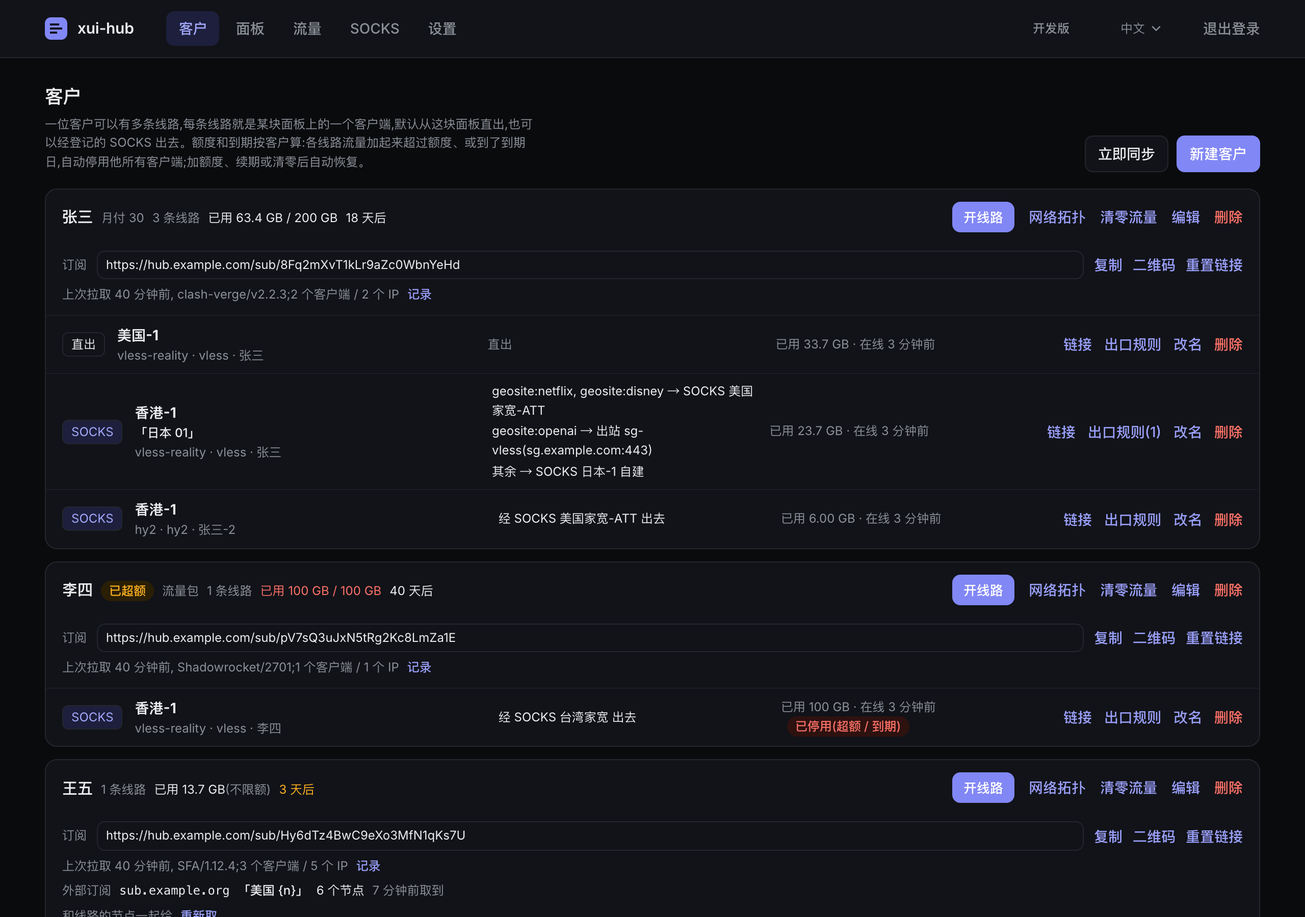
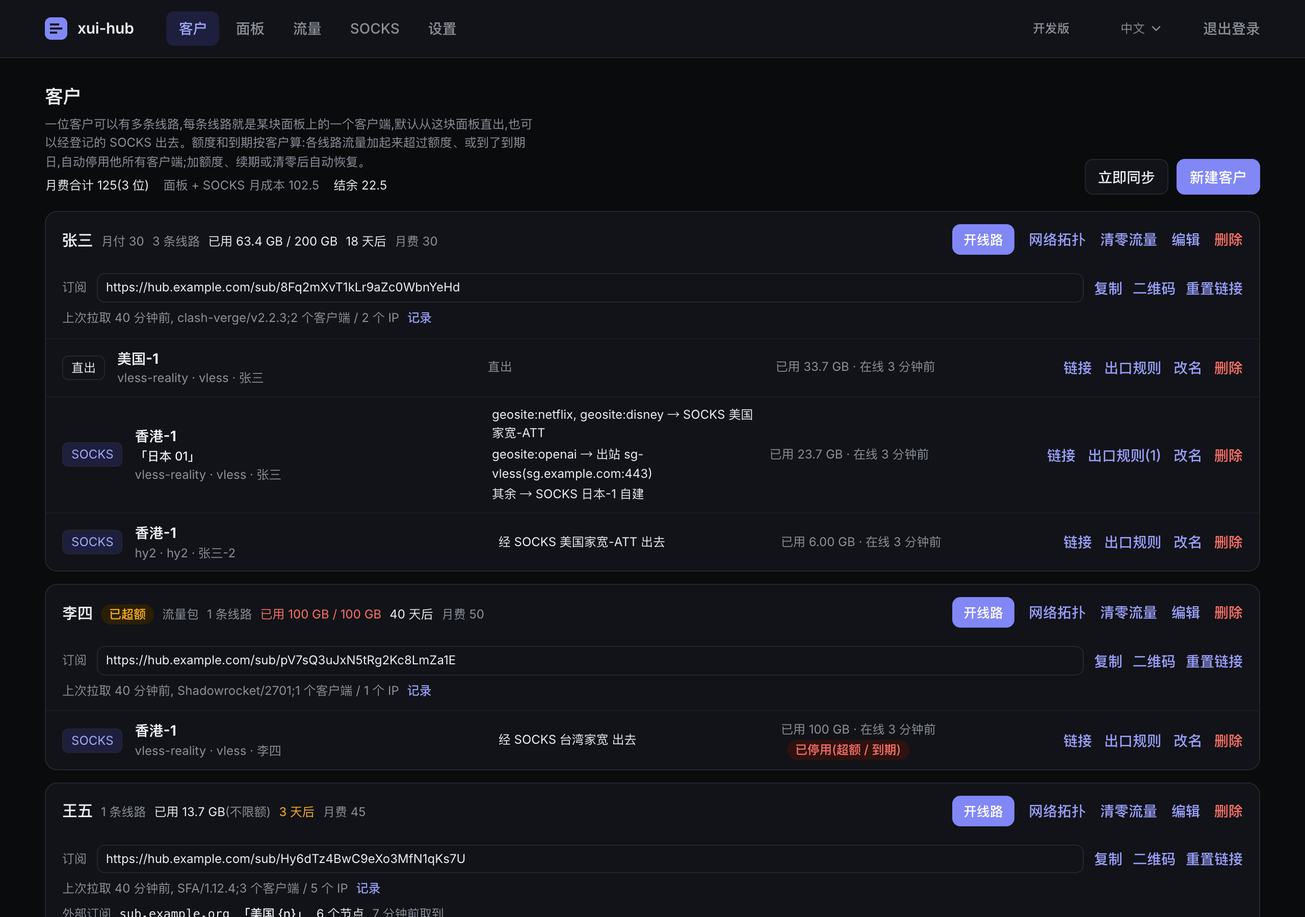
feat: 客户月费:记账、合计和结余
- 客户可以填月费(留空 = 不填),卡片上显示
- 客户页顶上合计没到期客户的月费,减去面板和 SOCKS 的月成本得出结余
- 快到期的提醒里带上月费
- 接口和 MCP 的客户字段加 monthly_fee

diff --git a/web/src/views/Customers.vue b/web/src/views/Customers.vue
@@ -9,13 +9,16 @@ import Modal from '../components/Modal.vue';
 import Select, { type SelectOption } from '../components/Select.vue';
 import { copyText } from '../clipboard';
 import QrCode from '../components/QrCode.vue';
-import { bytesToGb, dateInputToMs, dueLevel, fmtAgo, fmtBytes, fmtDate, fmtDateTime, fmtDue, gbToBytes, msToDateInput, shortUa, stateLabel, subUrl, customSubUrl, routeHopText, routeTarget } from '../format';
+import { bytesToGb, dateInputToMs, dueLevel, feeSummary, fmtAgo, fmtBytes, fmtCost, fmtDate, fmtDateTime, fmtDue, gbToBytes, msToDateInput, shortUa, stateLabel, subUrl, customSubUrl, routeHopText, routeTarget } from '../format';
 import { toast, toastError } from '../toast';
 import type { ClientProtocol, Customer, EnforceOp, Line, LineRule, OpenedLine, OpenLineInput, Panel, PanelInbound, Socks, SubDevice, SubFetch, SubTemplate } from '../types';
 
 const customers = ref<Customer[]>([]);
 const panels = ref<Panel[]>([]);
 const socksList = ref<Socks[]>([]);
+
+/** 月费合计和结余(面板 + SOCKS 的月成本) */
+const fees = computed(() => feeSummary(customers.value, [...panels.value, ...socksList.value]));
 
 const templateDefault = ref('');
 async function load() {
@@ -43,7 +46,7 @@ const proto = (p: string) => PROTOCOL[p] ?? p;
 const editing = ref<Customer | null>(null);
 const showForm = ref(false);
 const saving = ref(false);
-const form = ref({ name: '', remark: '', quotaGb: '', expire: '', monthlyReset: false, resetDay: '', limitDevices: '', template: '', customTemplate: '', subLinks: '', upstreams: [] as { url: string; node_name: string }[], upstreamReplace: false, upstreamUserinfo: false });
+const form = ref({ name: '', remark: '', fee: '', quotaGb: '', expire: '', monthlyReset: false, resetDay: '', limitDevices: '', template: '', customTemplate: '', subLinks: '', upstreams: [] as { url: string; node_name: string }[], upstreamReplace: false, upstreamUserinfo: false });
 /** 内置的 Clash 订阅模板;第一次打开表单时取 */
 const templates = ref<SubTemplate[]>([]);
 /** 内置模板的名字和说明按界面语言给(按模板 id 查文案);语言文件里没有的新模板用服务端给的 */
@@ -57,7 +60,7 @@ function openForm(c: Customer | null) {
   editing.value = c;
   const tpl = c?.sub_template ?? '';
   const custom = /^https:/.test(tpl);
-  form.value = { name: c?.name ?? '', remark: c?.remark ?? '', quotaGb: c?.quota_bytes ? String(bytesToGb(c.quota_bytes)) : '', expire: c ? msToDateInput(c.expire_at) : '', monthlyReset: !!c?.reset_day, resetDay: c?.reset_day ? String(c.reset_day) : '', limitDevices: c?.limit_devices ? String(c.limit_devices) : '', template: custom ? 'custom' : tpl, customTemplate: custom ? tpl : '', subLinks: (c?.sub_links ?? []).join('\n'), upstreams: (c?.upstreams ?? []).map((u) => ({ url: u.url, node_name: u.node_name })), upstreamReplace: c?.upstream_mode === 'replace', upstreamUserinfo: !!c?.upstream_userinfo };
+  form.value = { name: c?.name ?? '', remark: c?.remark ?? '', fee: c?.monthly_fee == null ? '' : String(c.monthly_fee), quotaGb: c?.quota_bytes ? String(bytesToGb(c.quota_bytes)) : '', expire: c ? msToDateInput(c.expire_at) : '', monthlyReset: !!c?.reset_day, resetDay: c?.reset_day ? String(c.reset_day) : '', limitDevices: c?.limit_devices ? String(c.limit_devices) : '', template: custom ? 'custom' : tpl, customTemplate: custom ? tpl : '', subLinks: (c?.sub_links ?? []).join('\n'), upstreams: (c?.upstreams ?? []).map((u) => ({ url: u.url, node_name: u.node_name })), upstreamReplace: c?.upstream_mode === 'replace', upstreamUserinfo: !!c?.upstream_userinfo };
   showForm.value = true;
 }
 
@@ -82,7 +85,7 @@ function opsNote(ops: EnforceOp[]): string {
 
 async function submit() {
   saving.value = true;
-  const body = { name: form.value.name, remark: form.value.remark, quota_bytes: form.value.quotaGb === '' ? 0 : gbToBytes(Number(form.value.quotaGb)), expire_at: dateInputToMs(form.value.expire), reset_day: form.value.monthlyReset ? Number(form.value.resetDay) || 1 : 0, limit_devices: form.value.limitDevices === '' ? 0 : Number(form.value.limitDevices), sub_template: form.value.template === 'custom' ? form.value.customTemplate.trim() : form.value.template, sub_links: form.value.subLinks.split('\n').map((x) => x.trim()).filter(Boolean), upstreams: form.value.upstreams.map((u) => ({ url: u.url.trim(), node_name: u.node_name.trim() })).filter((u) => u.url), upstream_mode: form.value.upstreamReplace ? ('replace' as const) : ('merge' as const), upstream_userinfo: form.value.upstreamUserinfo };
+  const body = { name: form.value.name, remark: form.value.remark, monthly_fee: form.value.fee === '' ? null : Number(form.value.fee), quota_bytes: form.value.quotaGb === '' ? 0 : gbToBytes(Number(form.value.quotaGb)), expire_at: dateInputToMs(form.value.expire), reset_day: form.value.monthlyReset ? Number(form.value.resetDay) || 1 : 0, limit_devices: form.value.limitDevices === '' ? 0 : Number(form.value.limitDevices), sub_template: form.value.template === 'custom' ? form.value.customTemplate.trim() : form.value.template, sub_links: form.value.subLinks.split('\n').map((x) => x.trim()).filter(Boolean), upstreams: form.value.upstreams.map((u) => ({ url: u.url.trim(), node_name: u.node_name.trim() })).filter((u) => u.url), upstream_mode: form.value.upstreamReplace ? ('replace' as const) : ('merge' as const), upstream_userinfo: form.value.upstreamUserinfo };
   try {
     const saved = editing.value ? await api.updateCustomer(editing.value.id, body) : await api.createCustomer(body);
     showForm.value = false;
@@ -453,6 +456,15 @@ function exitText(l: Line): string {
     <div>
       <h2>{{ t('customers.title') }}</h2>
       <p class="muted small">{{ t('customers.intro') }}</p>
+      <p v-if="fees.show" class="small summary" :title="t('customers.feeSummaryHint')">
+        <span>{{ t('customers.feeTotal', { total: fmtCost(fees.income), n: fees.payers }) }}</span>
+        <span v-if="fees.unset" class="muted">{{ t('customers.feeUnset', { n: fees.unset }) }}</span>
+        <span v-if="fees.expired" class="muted">{{ t('customers.feeExpired', { n: fees.expired }) }}</span>
+        <template v-if="fees.hasCost">
+          <span class="muted">{{ t('customers.feeCost', { total: fmtCost(fees.cost) }) }}</span>
+          <span :class="{ 'text-err': fees.balance < 0 }">{{ t('customers.feeBalance', { v: fmtCost(fees.balance) }) }}</span>
+        </template>
+      </p>
     </div>
     <div class="row">
       <button :disabled="syncing || !customers.length" :title="t('customers.syncHint')" @click="syncNow">{{ syncing ? t('customers.syncing') : t('customers.syncNow') }}</button>
@@ -474,6 +486,7 @@ function exitText(l: Line): string {
           <span class="small" :class="{ 'text-warn': dueLevel(c.expire_at) === 'warn', 'text-err': dueLevel(c.expire_at) === 'err', muted: !c.expire_at }" :title="fmtDate(c.expire_at)">
             {{ fmtDue(c.expire_at) }}
           </span>
+          <span v-if="c.monthly_fee != null" class="muted small">{{ t('customers.feeValue', { v: fmtCost(c.monthly_fee) }) }}</span>
           <span v-if="c.sub_template" class="muted small" :title="c.sub_template">{{ t('customers.template', { name: templateName(c.sub_template) }) }}</span>
           <span v-if="c.limit_devices" class="small" :class="c.sub_devices >= c.limit_devices ? 'text-warn' : 'muted'" :title="t('customers.devicesHint')">{{ t('customers.devices', { n: c.sub_devices, max: c.limit_devices }) }}</span>
           <span v-if="c.next_reset_at" class="muted small" :title="c.expire_at ? t('customers.resetFollows') : t('customers.resetEveryDay', { day: c.reset_day })">{{ t('customers.nextReset', { date: fmtDate(c.next_reset_at) }) }}</span>
@@ -549,7 +562,10 @@ function exitText(l: Line): string {
   <Modal v-if="showForm" :title="editing ? t('customers.editTitle', { name: editing.name }) : t('customers.create')" @close="showForm = false">
     <form id="customer-form" class="form" @submit.prevent="submit">
       <label class="field">{{ t('customers.name') }}<input v-model="form.name" required :placeholder="t('customers.namePlaceholder')" /></label>
-      <label class="field">{{ t('customers.remark') }}<input v-model="form.remark" /></label>
+      <div class="two">
+        <label class="field">{{ t('customers.remark') }}<input v-model="form.remark" /></label>
+        <label class="field">{{ t('customers.monthlyFee') }}<input v-model="form.fee" type="number" min="0" step="0.01" /></label>
+      </div>
       <div class="two">
         <label class="field">{{ t('customers.quota') }}<input v-model="form.quotaGb" type="number" min="0" step="1" /></label>
         <div class="field">
@@ -786,6 +802,11 @@ h2 {
 .toolbar p {
   margin: 4px 0 0;
   max-width: 64ch;
+}
+.summary {
+  display: flex;
+  flex-wrap: wrap;
+  gap: 4px 14px;
 }
 .topo-hint {
   margin: 0 0 8px;

diff --git a/server/src/customers/repo.ts b/server/src/customers/repo.ts
@@ -2,7 +2,7 @@
 
 import { randomBytes } from 'node:crypto';
 import type { DB } from '../db';
-import { InputError } from '../panels/repo';
+import { InputError, validCost } from '../panels/repo';
 import { customLinksByCustomer, setCustomLinks } from '../subscription/customLinks';
 import { validTemplate } from '../subscription/templates';
 import type { RouteHop } from '../lines/routes';
@@ -62,6 +62,8 @@ export interface Customer {
   sub_template: string;
   /** 能拉订阅的设备数上限,0 = 不限 */
   limit_devices: number;
+  /** 月费(每月收多少),null = 没填;只用来记账 */
+  monthly_fee: number | null;
   /** 订阅链接 /sub/<token> 里的 token,每个客户一个;重置后旧链接失效 */
   sub_token: string;
   /** 上次拉取订阅的时间和客户端(User-Agent) */
@@ -97,6 +99,8 @@ export interface CustomerInput {
   reset_day?: unknown;
   sub_template?: unknown;
   limit_devices?: unknown;
+  /** 月费:空 = 不填 */
+  monthly_fee?: unknown;
   /** 自定义订阅链接:整组替换,地址数组或按行分隔的字符串 */
   sub_links?: unknown;
   /** 外部订阅:整组替换,数组(每项是地址或 { url, node_name })或按行分隔的地址 */
@@ -223,6 +227,7 @@ function withLines(db: DB, rows: any[], now = Date.now()): CustomerView[] {
     return {
       ...c,
       upstream_userinfo: !!c.upstream_userinfo,
+      monthly_fee: c.monthly_fee ?? null,
       lines,
       used_up,
       used_down,
@@ -249,8 +254,8 @@ const newSubToken = () => randomBytes(18).toString('base64url');
 export function createCustomer(db: DB, input: CustomerInput, now = Date.now()): number {
   return db.transaction(() => {
     const info = db
-      .prepare('INSERT INTO customers (name, remark, quota_bytes, expire_at, reset_day, last_reset_at, sub_template, limit_devices, sub_token, upstream_mode, upstream_userinfo, created_at, updated_at) VALUES (?, ?, ?, ?, ?, ?, ?, ?, ?, ?, ?, ?, ?)')
-      .run(validName(input.name), String(input.remark ?? '').trim(), nonNegativeInt(input.quota_bytes, '额度'), nonNegativeInt(input.expire_at, '到期时间'), validResetDay(input.reset_day), now, validTemplate(input.sub_template), validLimitDevices(input.limit_devices), newSubToken(), validUpstreamMode(input.upstream_mode), input.upstream_userinfo === true ? 1 : 0, now, now);
+      .prepare('INSERT INTO customers (name, remark, quota_bytes, expire_at, reset_day, last_reset_at, sub_template, limit_devices, monthly_fee, sub_token, upstream_mode, upstream_userinfo, created_at, updated_at) VALUES (?, ?, ?, ?, ?, ?, ?, ?, ?, ?, ?, ?, ?, ?)')
+      .run(validName(input.name), String(input.remark ?? '').trim(), nonNegativeInt(input.quota_bytes, '额度'), nonNegativeInt(input.expire_at, '到期时间'), validResetDay(input.reset_day), now, validTemplate(input.sub_template), validLimitDevices(input.limit_devices), validCost(input.monthly_fee, '月费'), newSubToken(), validUpstreamMode(input.upstream_mode), input.upstream_userinfo === true ? 1 : 0, now, now);
     const id = Number(info.lastInsertRowid);
     if (input.sub_links !== undefined) setCustomLinks(db, id, input.sub_links);
     if (input.upstreams !== undefined) setUpstreams(db, id, input.upstreams);
@@ -276,7 +281,7 @@ export function updateCustomer(db: DB, id: number, input: CustomerInput, now = D
   if (!cur) throw new InputError('客户不存在');
   const resetDay = input.reset_day === undefined ? cur.reset_day : validResetDay(input.reset_day);
   const expireAt = input.expire_at === undefined ? cur.expire_at : nonNegativeInt(input.expire_at, '到期时间');
-  const update = db.prepare('UPDATE customers SET name = ?, remark = ?, quota_bytes = ?, expire_at = ?, reset_day = ?, last_reset_at = ?, sub_template = ?, limit_devices = ?, upstream_mode = ?, upstream_userinfo = ?, updated_at = ? WHERE id = ?');
+  const update = db.prepare('UPDATE customers SET name = ?, remark = ?, quota_bytes = ?, expire_at = ?, reset_day = ?, last_reset_at = ?, sub_template = ?, limit_devices = ?, monthly_fee = ?, upstream_mode = ?, upstream_userinfo = ?, updated_at = ? WHERE id = ?');
   const values = [
     input.name === undefined ? cur.name : validName(input.name),
     input.remark === undefined ? cur.remark : String(input.remark ?? '').trim(),
@@ -287,6 +292,7 @@ export function updateCustomer(db: DB, id: number, input: CustomerInput, now = D
     resetDay !== cur.reset_day || (resetDay > 0 && expireAt !== cur.expire_at) ? now : cur.last_reset_at,
     input.sub_template === undefined ? cur.sub_template : validTemplate(input.sub_template),
     input.limit_devices === undefined ? cur.limit_devices : validLimitDevices(input.limit_devices),
+    input.monthly_fee === undefined ? cur.monthly_fee : validCost(input.monthly_fee, '月费'),
     input.upstream_mode === undefined ? cur.upstream_mode : validUpstreamMode(input.upstream_mode),
     input.upstream_userinfo === undefined ? cur.upstream_userinfo : input.upstream_userinfo === true ? 1 : 0,
     now,

diff --git a/web/src/i18n/en.ts b/web/src/i18n/en.ts
@@ -471,6 +471,13 @@ const en: Messages = {
     template: 'Template: {name}',
     devicesHint: 'Devices that fetched the subscription / limit. When full, new devices cannot fetch it; remove devices under "Log" on the subscription row',
     devices: 'Devices {n} / {max}',
+    feeValue: 'Fee {v}/mo',
+    feeTotal: 'Monthly fees {total} ({n} customers)',
+    feeUnset: '{n} not set',
+    feeExpired: '{n} expired, not counted',
+    feeCost: 'Panel + SOCKS cost {total}',
+    feeBalance: 'Balance {v}',
+    feeSummaryHint: 'Only customers who have not expired are counted; over-quota ones still count. Balance = monthly fees − panel and SOCKS monthly costs',
     resetFollows: 'The reset day follows the expiry date',
     resetEveryDay: 'Resets on day {day} of each month',
     nextReset: 'Monthly reset · next {date}',
@@ -506,6 +513,7 @@ const en: Messages = {
     name: 'Name',
     namePlaceholder: 'Client names are generated from it',
     remark: 'Note',
+    monthlyFee: 'Monthly fee (blank = not set)',
     quota: 'Total quota (GB, blank = unlimited)',
     monthlyReset: 'Reset traffic every month',
     monthlyOff: 'Unchecked = traffic keeps adding up until the quota is used',
@@ -523,7 +531,7 @@ const en: Messages = {
     customTemplateOption: 'Custom template URL…',
     templateUrl: 'Template URL',
     templateUrlPlaceholder: 'https://… a subconverter ini template',
-    formHint: 'Traffic is the sum over all of the customer\'s lines, synced from the panels every minute. When the quota is exceeded or the customer expires, all their clients are disabled; raising the quota, extending the expiry or resetting usage re-enables them. With "Reset traffic every month" checked, usage is reset on the expiry day of each month and lines disabled for quota come back; the reset day always follows the expiry date and moves when a renewal changes it (only customers without an expiry date pick a day). Each customer is configured separately. The device limit applies to the subscription link: each client app that imported the subscription counts as one device; when full, new devices cannot fetch it, and the customer can remove old devices by opening the subscription link in a browser. Nothing is changed on the panels.',
+    formHint: 'Traffic is the sum over all of the customer\'s lines, synced from the panels every minute. When the quota is exceeded or the customer expires, all their clients are disabled; raising the quota, extending the expiry or resetting usage re-enables them. With "Reset traffic every month" checked, usage is reset on the expiry day of each month and lines disabled for quota come back; the reset day always follows the expiry date and moves when a renewal changes it (only customers without an expiry date pick a day). Each customer is configured separately. The device limit applies to the subscription link: each client app that imported the subscription counts as one device; when full, new devices cannot fetch it, and the customer can remove old devices by opening the subscription link in a browser. Nothing is changed on the panels. The monthly fee is for bookkeeping only and changes nothing: the top of this page totals the fees of customers who have not expired and subtracts the panel and SOCKS monthly costs to give the balance; expiry reminders also include the fee.',
     subLinks: 'Custom subscription links (optional, one per line)',
     subLinksPlaceholder: '/s/alice\n/getprofile?name=profiles/a&token=xxx',
     subLinksHint: 'Enter a path (query allowed), or paste a full URL and only its path and query are kept. Opening any of these is the same as opening the generated subscription link above — handy for keeping links handed out by another system working, or giving a customer an easy address. The domain is ignored, so an old link\'s domain must point to this service. Paths are case-insensitive; query parameters in the link must match, extra ones are ignored. Resetting the link does not affect them; remove a line to stop it.',

diff --git a/web/src/i18n/zh.ts b/web/src/i18n/zh.ts
@@ -469,6 +469,13 @@ export default {
     template: '模板:{name}',
     devicesHint: '拉过订阅的设备数 / 上限。满了以后新设备拉不到订阅,点订阅那一行的「记录」可以删设备',
     devices: '设备 {n} / {max}',
+    feeValue: '月费 {v}',
+    feeTotal: '月费合计 {total}({n} 位)',
+    feeUnset: '{n} 位没填',
+    feeExpired: '已到期的 {n} 位不算',
+    feeCost: '面板 + SOCKS 月成本 {total}',
+    feeBalance: '结余 {v}',
+    feeSummaryHint: '只算没到期的客户;已超额的照算。结余 = 月费合计 − 面板和 SOCKS 的月成本',
     resetFollows: '重置日跟着到期日走',
     resetEveryDay: '每月 {day} 号重置',
     nextReset: '每月重置流量 · 下次 {date}',
@@ -504,6 +511,7 @@ export default {
     name: '名称',
     namePlaceholder: '客户端的名字会用它生成',
     remark: '备注',
+    monthlyFee: '月费(空 = 不填)',
     quota: '总额度(GB,空 = 不限)',
     monthlyReset: '每月自动重置流量',
     monthlyOff: '不勾 = 流量一直累计,用完为止',
@@ -521,7 +529,7 @@ export default {
     customTemplateOption: '自定义模板地址…',
     templateUrl: '模板地址',
     templateUrlPlaceholder: 'https://… subconverter 的 ini 模板',
-    formHint: '流量按客户所有线路加总,每分钟从面板同步一次;超额或到期后自动停用他的全部客户端,改大额度、延后到期或清零流量会自动恢复。勾了「每月自动重置流量」,每月到了到期日那天自动把他的流量清零、被超额停掉的线路恢复;重置日始终跟着到期日,续费后到期日变了也跟着变(没设到期日的才要自己填每月几号)。每位客户各自设置。设备数上限管的是订阅链接:每个导入过订阅的客户端算一台,满了以后新设备拉不到订阅,客户用浏览器打开订阅链接可以自己移除旧设备;面板上不改任何东西。',
+    formHint: '流量按客户所有线路加总,每分钟从面板同步一次;超额或到期后自动停用他的全部客户端,改大额度、延后到期或清零流量会自动恢复。勾了「每月自动重置流量」,每月到了到期日那天自动把他的流量清零、被超额停掉的线路恢复;重置日始终跟着到期日,续费后到期日变了也跟着变(没设到期日的才要自己填每月几号)。每位客户各自设置。设备数上限管的是订阅链接:每个导入过订阅的客户端算一台,满了以后新设备拉不到订阅,客户用浏览器打开订阅链接可以自己移除旧设备;面板上不改任何东西。月费只用来记账,不影响任何功能:页面顶上合计没到期客户的月费,减去面板和 SOCKS 的月成本就是结余;快到期的提醒里也会带上月费。',
     subLinks: '自定义订阅链接(可选,每行一个)',
     subLinksPlaceholder: '/s/zhangsan\n/getprofile?name=profiles/a&token=xxx',
     subLinksHint: '填路径(可带参数),也可以直接贴完整网址(只取路径和参数)。访问这些地址和访问上面生成的订阅链接一样,适合沿用别的系统发出去的旧链接,或者给客户一个好记的地址。域名不看,旧链接的域名要指到本服务。路径不分大小写;链接里写了的参数要对上,多带的参数不影响。重置链接不影响它们,不用了删掉这一行就行。',

diff --git a/server/src/mcp/tools.ts b/server/src/mcp/tools.ts
@@ -48,6 +48,7 @@ function customerView(c: any, ctx: ToolContext) {
     reset_day: c.reset_day || null,
     next_reset_at: c.next_reset_at ? new Date(c.next_reset_at).toISOString() : null,
     limit_devices: c.limit_devices || null,
+    monthly_fee: c.monthly_fee ?? null,
     devices: c.sub_devices,
     sub_template: c.sub_template || 'ACL4SSR_Online_Mini',
     sub_url: c.sub_url || `${ctx.baseUrl}/sub/${c.sub_token}`,
@@ -90,7 +91,7 @@ function customerView(c: any, ctx: ToolContext) {
 /** quota_gb / expire_at(ISO 或 +N 天)换成接口要的字节和毫秒 */
 function customerInput(a: any): Record<string, unknown> {
   const body: Record<string, unknown> = {};
-  for (const k of ['name', 'remark', 'reset_day', 'limit_devices', 'sub_template', 'sub_links', 'upstreams', 'upstream_mode', 'upstream_userinfo']) if (a[k] !== undefined) body[k] = a[k];
+  for (const k of ['name', 'remark', 'reset_day', 'limit_devices', 'monthly_fee', 'sub_template', 'sub_links', 'upstreams', 'upstream_mode', 'upstream_userinfo']) if (a[k] !== undefined) body[k] = a[k];
   if (a.quota_gb !== undefined) body.quota_bytes = Math.round(Number(a.quota_gb) * GB);
   if (a.expire_at !== undefined) {
     if (a.expire_at === '' || a.expire_at === null) body.expire_at = 0;
@@ -112,6 +113,7 @@ const customerFields = {
   expire_in_days: int('从现在起多少天后到期(和 expire_at 二选一)', { minimum: 1, maximum: 3650 }),
   reset_day: int('按月重置流量:0 = 不重置;1-28 = 开启。客户有到期时间时重置日跟着到期日走(每月到期日那天),这个数只在没有到期时间时当「每月几号」用', { minimum: 0, maximum: 28 }),
   limit_devices: int('能拉订阅的设备数上限,0 = 不限', { minimum: 0, maximum: 100 }),
+  monthly_fee: { type: ['number', 'null'], minimum: 0, maximum: 100_000_000, description: '月费(每月收这位客户多少钱),只用来记账;null = 清掉(不填)' },
   sub_template: str('Clash 订阅模板:内置模板 id(如 ACL4SSR_Online_Full)或 https 模板地址;空字符串 = 默认'),
   sub_links: {
     type: 'array',
@@ -147,7 +149,7 @@ export const TOOLS: ToolDef[] = [
   {
     name: 'list_customers',
     title: '客户列表',
-    description: '列出全部客户:状态(active 正常 / expired 已到期 / over_quota 已超额)、已用和总流量、到期时间、订阅链接、线路。',
+    description: '列出全部客户:状态(active 正常 / expired 已到期 / over_quota 已超额)、已用和总流量、到期时间、月费(monthly_fee,null = 没填)、订阅链接、线路。',
     inputSchema: obj({}),
     annotations: { readOnlyHint: true },
     run: async (_a, ctx) => (await call(ctx, 'GET', '/customers')).map((c: any) => customerView(c, ctx)),

diff --git a/web/src/format.ts b/web/src/format.ts
@@ -101,6 +101,26 @@ export function costSummary(items: { monthly_cost: number | null; expire_at: num
   };
 }
 
+/** 客户月费合计:已到期的不算(还没续费);再减去面板和 SOCKS 的月成本 = 结余。按分算,不出 0.1 + 0.2 那种小数 */
+export function feeSummary(customers: { monthly_fee: number | null; state: string }[], costs: { monthly_cost: number | null }[]) {
+  const cents = (n: number | null) => Math.round((n ?? 0) * 100);
+  const paying = customers.filter((c) => c.state !== 'expired');
+  const income = paying.reduce((sum, c) => sum + cents(c.monthly_fee), 0);
+  const cost = costs.reduce((sum, x) => sum + cents(x.monthly_cost), 0);
+  return {
+    /** 有客户填了月费才显示这一行 */
+    show: customers.some((c) => c.monthly_fee != null),
+    income: income / 100,
+    payers: paying.filter((c) => c.monthly_fee != null).length,
+    unset: paying.filter((c) => c.monthly_fee == null).length,
+    expired: customers.filter((c) => c.state === 'expired' && c.monthly_fee != null).length,
+    /** 面板 / SOCKS 有填月成本的才算结余 */
+    hasCost: costs.some((x) => x.monthly_cost != null),
+    cost: cost / 100,
+    balance: (income - cost) / 100,
+  };
+}
+
 /** 客户的订阅链接:服务端配了 SUB_BASE_URL 用它,否则用当前打开后台的地址 */
 export function subUrl(c: { sub_url: string | null; sub_token: string }): string {
   return c.sub_url ?? `${location.origin}/sub/${c.sub_token}`;

diff --git a/server/src/customers/repo.test.ts b/server/src/customers/repo.test.ts
@@ -55,6 +55,24 @@ test('客户增改:名称、额度、到期时间的校验;没传的字段不动
   assert.equal(getCustomer(db, 999), undefined);
 });
 
+test('月费:不填 = null,保留两位小数;改别的字段不动它,留空 = 清掉;负数 / 非数字报错', () => {
+  const db = memoryDb();
+  const a = createCustomer(db, { name: 'a' });
+  assert.equal(getCustomer(db, a)!.monthly_fee, null);
+  const b = createCustomer(db, { name: 'b', monthly_fee: '29.999' });
+  assert.equal(getCustomer(db, b)!.monthly_fee, 30);
+  updateCustomer(db, b, { remark: 'x' });
+  assert.equal(getCustomer(db, b)!.monthly_fee, 30);
+  updateCustomer(db, b, { monthly_fee: 0 });
+  assert.equal(getCustomer(db, b)!.monthly_fee, 0);
+  updateCustomer(db, b, { monthly_fee: 15.5 });
+  assert.equal(listCustomers(db).find((c) => c.id === b)!.monthly_fee, 15.5);
+  updateCustomer(db, b, { monthly_fee: '' });
+  assert.equal(getCustomer(db, b)!.monthly_fee, null);
+  assert.throws(() => createCustomer(db, { name: 'c', monthly_fee: -1 }), /月费要是 0 到 1 亿之间的数字/);
+  assert.throws(() => updateCustomer(db, a, { monthly_fee: 'abc' }), /月费要是/);
+});
+
 test('订阅 token:每个客户一个,能反查客户;重置后旧的立即失效;记下最近一次拉取', () => {
   const db = memoryDb();
   const a = createCustomer(db, { name: 'a' });

diff --git a/server/src/notify/events.test.ts b/server/src/notify/events.test.ts
@@ -46,9 +46,15 @@ test('停用 / 恢复按客户汇总;快到期和流量预警各只提醒一次,
 
   const first = thresholdEvents(db, DEFAULT_SETTINGS.notify, now);
   assert.deepEqual(first.map((m) => [m.event, m.title]), [['customer_expiring', '客户「zhu」2 天后到期'], ['customer_quota', '客户「zhu」流量已用 95%']]);
+  assert.doesNotMatch(first[0].text, /月费/);
   assert.deepEqual(thresholdEvents(db, DEFAULT_SETTINGS.notify, now + 1000), []);
   // 关掉提醒项
   assert.deepEqual(thresholdEvents(db, { ...DEFAULT_SETTINGS.notify, expiring: false, quota_warn: false }, now), []);
+  // 填了月费:快到期的提醒带上月费,续费时知道该收多少
+  const fee = createCustomer(db, { name: 'fee', expire_at: now + 86_400_000, monthly_fee: 30 });
+  const ev2 = thresholdEvents(db, DEFAULT_SETTINGS.notify, now).find((m) => m.title.includes('fee'));
+  assert.ok(fee && ev2);
+  assert.match(ev2.text, /,月费 30$/);
 });
 
 test('渠道:没配就没有;测试用的假渠道一个成一个败,broadcast 各报各的', async () => {

diff --git a/server/src/notify/events.ts b/server/src/notify/events.ts
@@ -79,7 +79,7 @@ export function thresholdEvents(db: DB, s: Settings['notify'], now: number, cust
       if (!alreadyNotified(db, key)) {
         markNotified(db, key, now);
         const days = Math.max(0, Math.ceil((c.expire_at - now) / 86_400_000));
-        out.push({ event: 'customer_expiring', title: `客户「${c.name}」${days === 0 ? '今天' : `${days} 天后`}到期`, text: `到期日 ${fmtDate(c.expire_at)},${c.lines.length} 条线路`, at: now });
+        out.push({ event: 'customer_expiring', title: `客户「${c.name}」${days === 0 ? '今天' : `${days} 天后`}到期`, text: `到期日 ${fmtDate(c.expire_at)},${c.lines.length} 条线路` + (c.monthly_fee != null ? `,月费 ${c.monthly_fee}` : ''), at: now });
       }
     }
     if (s.quota_warn && c.quota_bytes > 0 && c.used >= (c.quota_bytes * s.quota_warn_pct) / 100) {

diff --git a/server/src/panels/repo.ts b/server/src/panels/repo.ts
@@ -37,11 +37,11 @@ export interface PanelInput {
 
 export class InputError extends Error {}
 
-/** 月成本:空 = 没填(null);否则 0 到 1 亿之间,保留两位小数 */
-export function validCost(value: unknown): number | null {
+/** 月成本 / 月费:空 = 没填(null);否则 0 到 1 亿之间,保留两位小数 */
+export function validCost(value: unknown, label = '月成本'): number | null {
   if (value == null || value === '') return null;
   const n = Number(value);
-  if (!Number.isFinite(n) || n < 0 || n > 1e8) throw new InputError('月成本要是 0 到 1 亿之间的数字,留空 = 不填');
+  if (!Number.isFinite(n) || n < 0 || n > 1e8) throw new InputError(`${label}要是 0 到 1 亿之间的数字,留空 = 不填`);
   return Math.round(n * 100) / 100;
 }
 

diff --git a/web/src/types.ts b/web/src/types.ts
@@ -203,6 +203,8 @@ export interface Customer {
   sub_template: string;
   /** 能拉订阅的设备数上限,0 = 不限 */
   limit_devices: number;
+  /** 月费,null = 没填;只用来记账 */
+  monthly_fee: number | null;
   /** 订阅链接 /sub/<token> 里的 token */
   sub_token: string;
   /** 订阅链接;未配置 SUB_BASE_URL 时为 null,前端用当前地址拼 */
@@ -260,6 +262,7 @@ export interface CustomerInput {
   reset_day?: number;
   sub_template?: string;
   limit_devices?: number;
+  monthly_fee?: number | null;
   sub_links?: string[];
   upstreams?: { url: string; node_name?: string }[];
   upstream_mode?: 'merge' | 'replace';

diff --git a/server/src/db.ts b/server/src/db.ts
@@ -265,6 +265,10 @@ export const MIGRATIONS: string[] = [
   -- 线路的出口规则(在 xui-hub 里配、写到面板 Xray 路由):JSON 数组,见 lines/rules.ts
   ALTER TABLE lines ADD COLUMN rules TEXT NOT NULL DEFAULT '[]';
   `,
+  `
+  -- 客户的月费(每月收多少,NULL = 没填),只用来记账
+  ALTER TABLE customers ADD COLUMN monthly_fee REAL;
+  `,
 ];
 
 export function openDb(file: string): DB {
